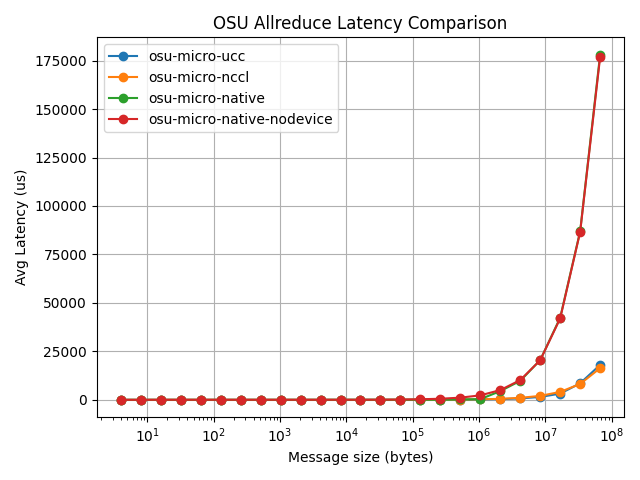
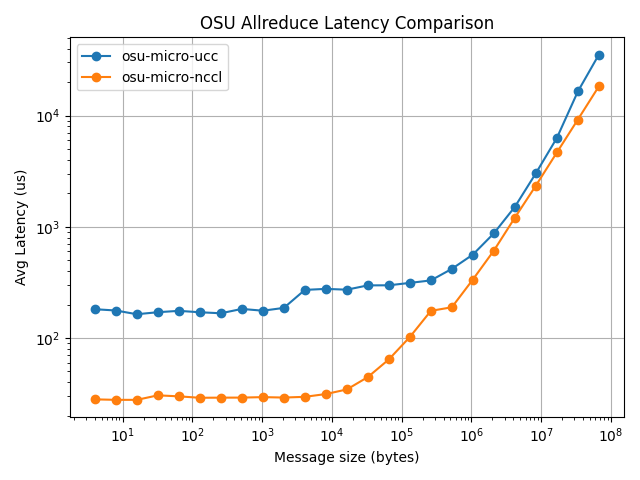
updated files

diff --git a/plots/run_all_benchmarks.py b/plots/run_all_benchmarks.py
@@ -1,0 +1,52 @@
+#!/usr/bin/env python3
+"""
+Simple script to run each benchmark's run.sh and append all raw output into a single file.
+
+Usage:
+  python run_all_benchmarks.py --dirs ~/osu-micro-nccl ~/osu-micro-ucc --output all_output.txt
+"""
+import argparse
+import subprocess
+import os
+import sys
+
+def run_and_append(dir_path, outfile):
+    script_path = os.path.join(os.path.expanduser(dir_path), 'run.sh')
+    if not os.path.isfile(script_path):
+        print(f"[WARN] {script_path} not found, skipping.", file=sys.stderr)
+        return
+    print(f"[INFO] Running {script_path}...")
+    try:
+        result = subprocess.run([script_path], cwd=os.path.dirname(script_path),
+                                stdout=subprocess.PIPE, stderr=subprocess.PIPE,
+                                text=True, check=True)
+    except subprocess.CalledProcessError as e:
+        print(f"[ERROR] {script_path} failed with error:\n{e.stderr}", file=sys.stderr)
+        return
+
+    # Write header and output
+    outfile.write(f"===== OUTPUT for {dir_path} =====\n")
+    outfile.write(result.stdout)
+    outfile.write("\n")
+
+
+def main():
+    parser = argparse.ArgumentParser(description="Run benchmarks and append raw outputs into one file.")
+    parser.add_argument('--dirs', nargs='+', required=True, help="Benchmark directories containing run.sh")
+    parser.add_argument('--output', required=True, help="Path to the output file to append all logs")
+    args = parser.parse_args()
+
+    # Open output file once
+    try:
+        with open(os.path.expanduser(args.output), 'w') as out:
+            for d in args.dirs:
+                run_and_append(d, out)
+    except OSError as e:
+        print(f"[ERROR] Cannot write to {args.output}: {e}", file=sys.stderr)
+        sys.exit(1)
+
+    print(f"[INFO] All outputs written to {args.output}")
+
+if __name__ == '__main__':
+    main()
+

diff --git a/plots/generate_isolated.py b/plots/generate_isolated.py
@@ -33,8 +33,6 @@ def main():
     directories = [
         '/home/nkodkani/osu-micro-ucc',
         '/home/nkodkani/osu-micro-nccl',
-        '/home/nkodkani/osu-micro-native',
-        '/home/nkodkani/osu-micro-native-nodevice'
     ]
 
     cwd = os.getcwd()
